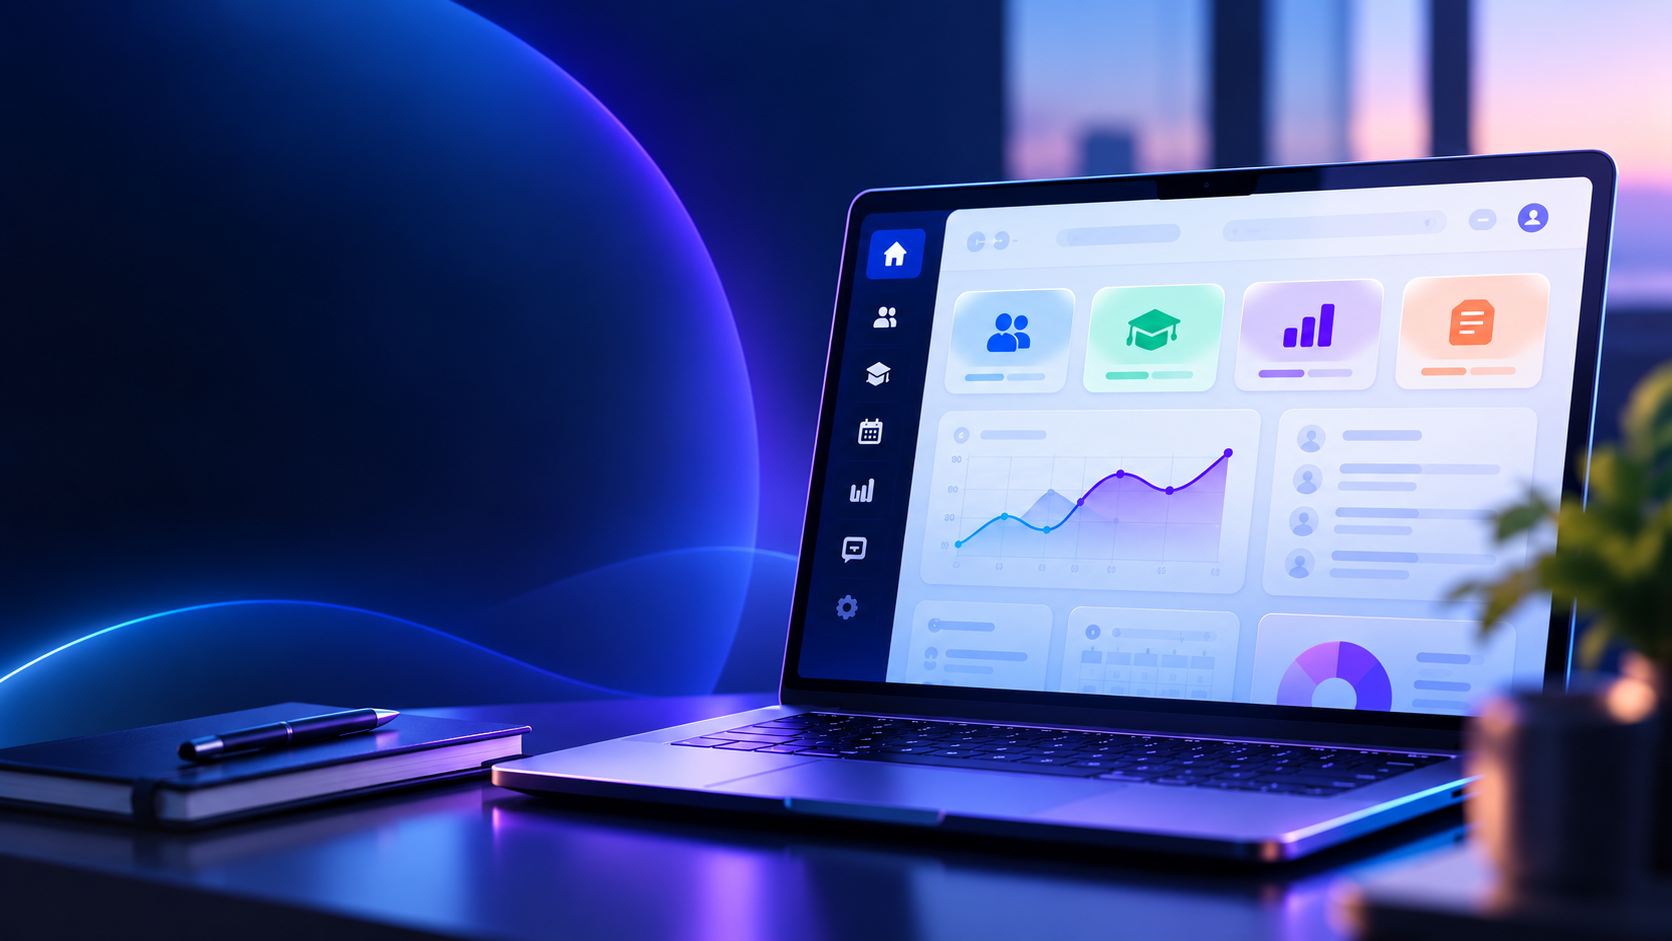
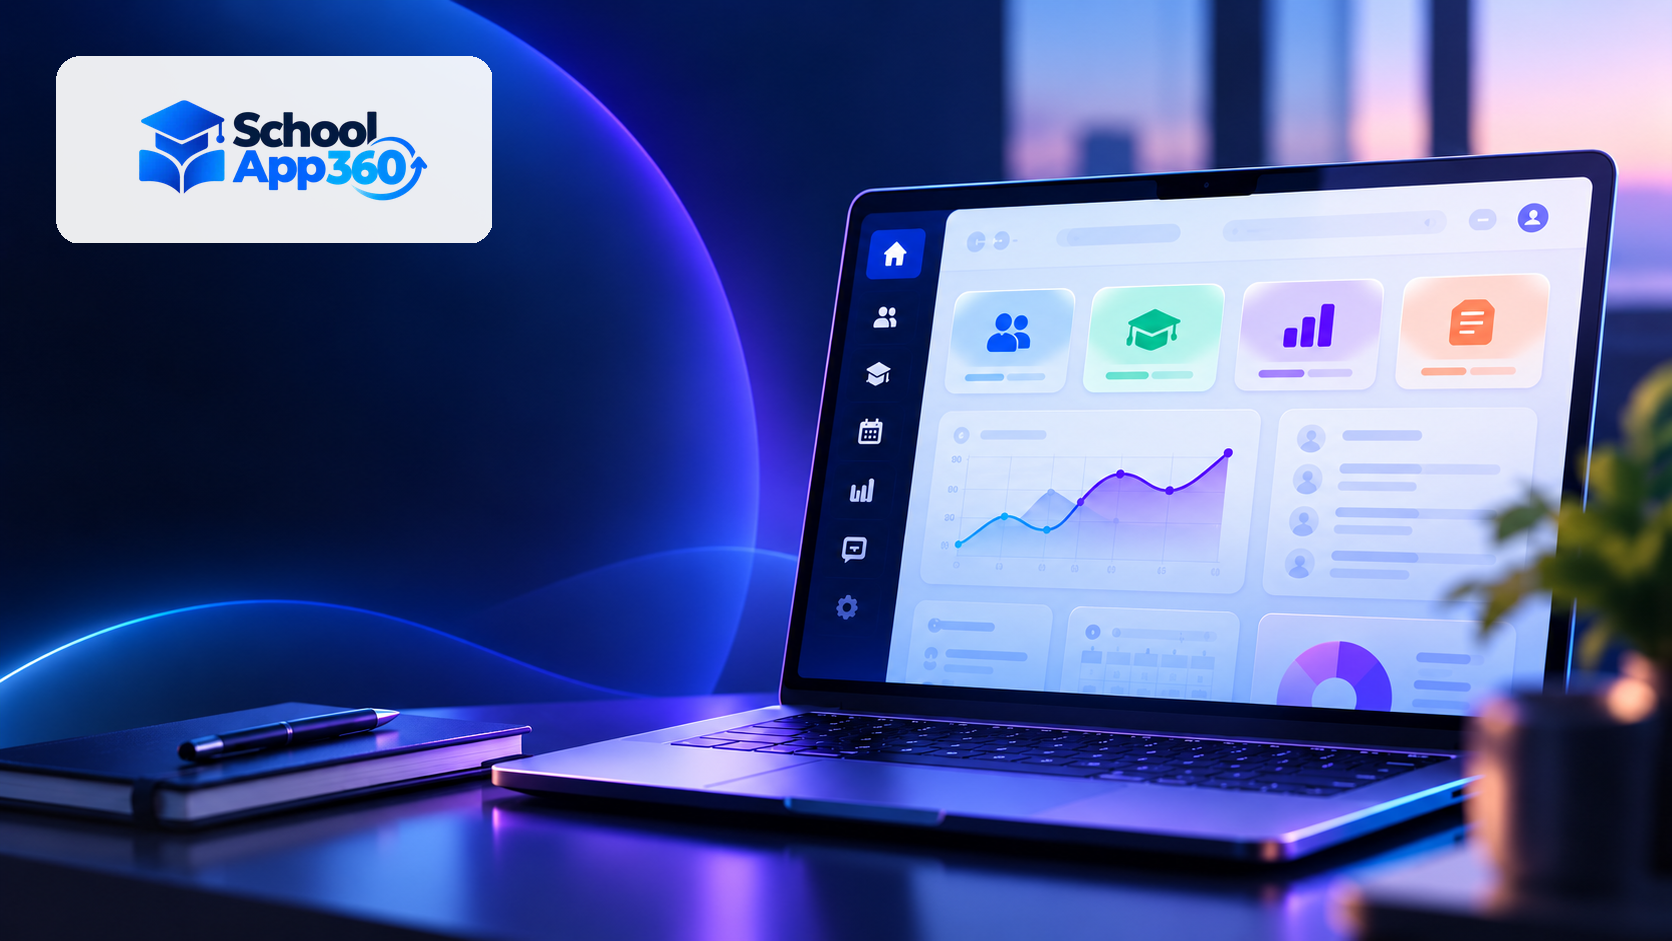
chagnes for meta

Changed region(s): [[0.0311, 0.0616, 0.311, 0.2774]]

diff --git a/lib/site-config.js b/lib/site-config.js
@@ -3,7 +3,7 @@ export const siteConfig = {
   shortName: "SchoolApp 360",
   tagline: "One system for admins, teachers, and parents",
   description:
-    "SchoolApp 360 is a simple school management platform launching soon: an admin web dashboard, a teacher app, and a parent app running on one backend. We're opening beta testing to a limited number of schools before general launch.",
+    "SchoolApp 360 makes school management simple — attendance, fees, homework, and exams, all in one place. Join our beta testing program before general launch.",
   url: "https://www.schoolapp360.com",
   email: "connect@schoolapp360.com",
 };
